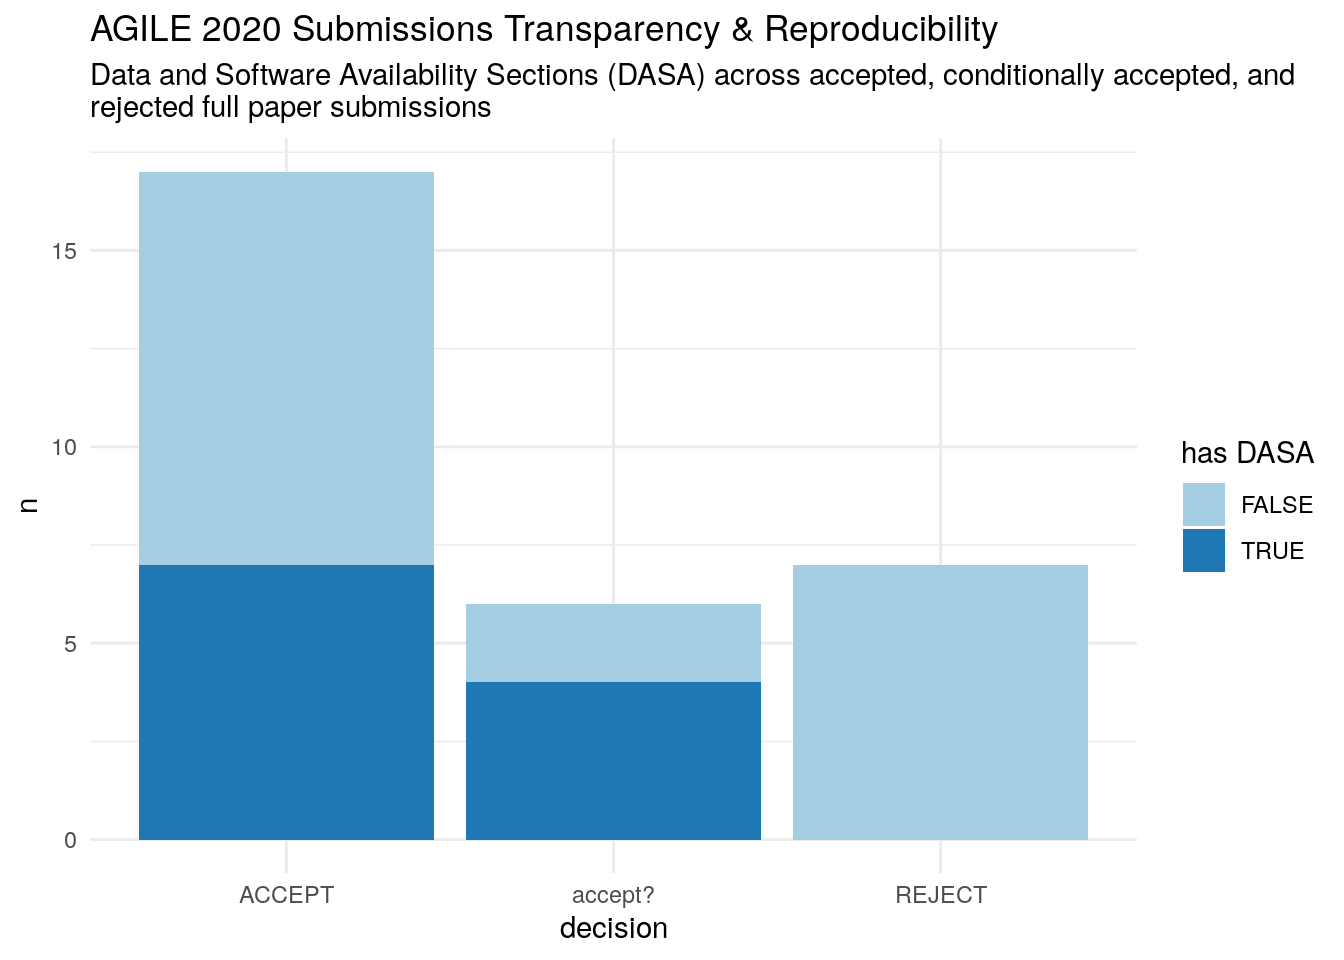
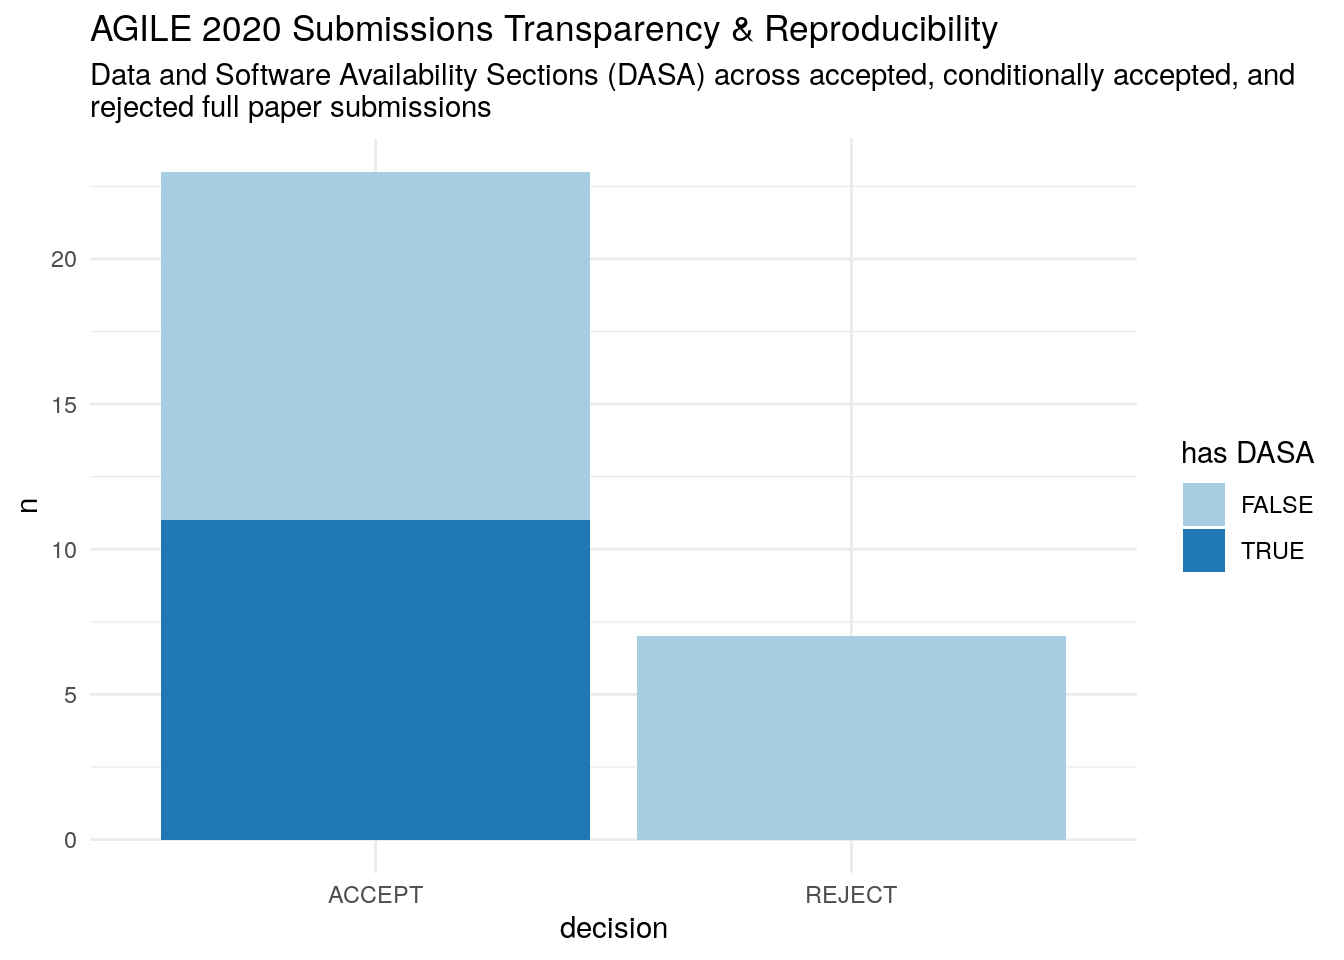
update email template

diff --git a/docs/agile-2020-papers.html b/docs/agile-2020-papers.html
@@ -192,7 +192,7 @@ $(document).ready(function () {
 
 <h1 class="title toc-ignore">Reproducibility Review AGILE 2020</h1>
 <h4 class="author">Daniel Nüst</h4>
-<h4 class="date">27 May, 2020</h4>
+<h4 class="date">05 June, 2020</h4>
 
 </div>
 
@@ -580,10 +580,10 @@ Full-paper
 Full-paper
 </td>
 <td style="text-align:right;">
-12097
+11797
 </td>
 <td style="text-align:right;">
-5484
+5345
 </td>
 </tr>
 <tr>
@@ -1372,10 +1372,10 @@ Short-paper
 FP:30|PO:18|SP:49
 </td>
 <td style="text-align:right;font-weight: bold;">
-395669
+395369
 </td>
 <td style="text-align:right;font-weight: bold;">
-194017
+193878
 </td>
 </tr>
 </tbody>
@@ -1454,7 +1454,7 @@ The following table shows the first 800 characters of these sections.
 </div>
 <div id="wordstem-analysis" class="section level3">
 <h3>Wordstem analysis</h3>
-<p>For the following table and figure, the word stems were extracted based on a stemming algorithm from package <a href="https://cran.r-project.org/package=quanteda"><code>quanteda</code></a>. The word cloud is based on 396 unique words occuring each at least 100 times, all in all occuring 98042 times which comprises 51 % of non-stop words.</p>
+<p>For the following table and figure, the word stems were extracted based on a stemming algorithm from package <a href="https://cran.r-project.org/package=quanteda"><code>quanteda</code></a>. The word cloud is based on 396 unique words occuring each at least 100 times, all in all occuring 97991 times which comprises 51 % of non-stop words.</p>
 <div style="border: 1px solid #ddd; padding: 0px; overflow-y: scroll; height:320px; ">
 <table class="table table-striped" style="margin-left: auto; margin-right: auto;">
 <thead>
@@ -1485,7 +1485,7 @@ n
 data
 </td>
 <td style="text-align:right;">
-3252
+3251
 </td>
 <td style="text-align:right;">
 95
@@ -1536,7 +1536,7 @@ spatial
 inform
 </td>
 <td style="text-align:right;">
-1027
+1025
 </td>
 <td style="text-align:right;">
 90
@@ -1672,7 +1672,7 @@ citi
 analysi
 </td>
 <td style="text-align:right;">
-712
+714
 </td>
 <td style="text-align:right;">
 80
@@ -1689,7 +1689,7 @@ analysi
 locat
 </td>
 <td style="text-align:right;">
-694
+691
 </td>
 <td style="text-align:right;">
 79
@@ -1706,7 +1706,7 @@ locat
 method
 </td>
 <td style="text-align:right;">
-670
+671
 </td>
 <td style="text-align:right;">
 85
@@ -1740,7 +1740,7 @@ urban
 system
 </td>
 <td style="text-align:right;">
-656
+650
 </td>
 <td style="text-align:right;">
 82
@@ -1791,7 +1791,7 @@ level
 https
 </td>
 <td style="text-align:right;">
-592
+586
 </td>
 <td style="text-align:right;">
 72
@@ -1808,7 +1808,7 @@ https
 develop
 </td>
 <td style="text-align:right;">
-583
+582
 </td>
 <td style="text-align:right;">
 83
@@ -2442,19 +2442,19 @@ FALSE
 0
 </td>
 <td style="text-align:right;">
-0
-</td>
-<td style="text-align:right;">
 1
 </td>
 <td style="text-align:right;">
-9
+8
 </td>
 <td style="text-align:right;">
-92
+6
 </td>
 <td style="text-align:right;">
-18
+91
+</td>
+<td style="text-align:right;">
+15
 </td>
 <td style="text-align:right;">
 0
@@ -2463,7 +2463,7 @@ FALSE
 0
 </td>
 <td style="text-align:right;">
-120
+121
 </td>
 </tr>
 <tr>
@@ -2486,19 +2486,19 @@ FALSE
 0
 </td>
 <td style="text-align:right;">
+0
+</td>
+<td style="text-align:right;">
 1
 </td>
 <td style="text-align:right;">
-8
+9
 </td>
 <td style="text-align:right;">
-6
+92
 </td>
 <td style="text-align:right;">
-90
-</td>
-<td style="text-align:right;">
-15
+18
 </td>
 <td style="text-align:right;">
 0
@@ -6190,7 +6190,7 @@ T:18|F:79
 831
 </td>
 <td style="text-align:right;font-weight: bold;">
-3577
+3578
 </td>
 <td style="text-align:right;font-weight: bold;">
 840
@@ -6202,7 +6202,7 @@ T:18|F:79
 43
 </td>
 <td style="text-align:right;font-weight: bold;">
-5885
+5886
 </td>
 </tr>
 </tbody>
@@ -6232,15 +6232,7 @@ count
 ACCEPT
 </td>
 <td style="text-align:right;">
-17
-</td>
-</tr>
-<tr>
-<td style="text-align:left;">
-accept?
-</td>
-<td style="text-align:right;">
-6
+23
 </td>
 </tr>
 <tr>
@@ -6289,7 +6281,7 @@ submitted with DASA
 accepted
 </td>
 <td style="text-align:right;">
-17
+23
 </td>
 </tr>
 <tr>
@@ -6297,7 +6289,7 @@ accepted
 accepted with DASA
 </td>
 <td style="text-align:right;">
-7
+11
 </td>
 </tr>
 <tr>
@@ -6305,7 +6297,7 @@ accepted with DASA
 conditionally accepted
 </td>
 <td style="text-align:right;">
-6
+0
 </td>
 </tr>
 <tr>
@@ -6313,7 +6305,7 @@ conditionally accepted
 conditionally accepted with DASA
 </td>
 <td style="text-align:right;">
-4
+0
 </td>
 </tr>
 <tr>
@@ -6490,7 +6482,9 @@ congratulations to the acceptance of your submission &quot;TITLE&quot; as a full
 
 As part of the AGILE reproducibility review (see https://docs.google.com/document/d/1JHCQV7GP3YkKwp0Nii3dt3p3Y45hU56Xz2cr-xJVz34/edit#heading=h.oheeg2s92zdm for details) I hereby ask you if you agree to the report being published on OSF (see https://osf.io/6k5fh/). A publication of the reproduction attempt gives credit to my work as a reproducibility reviewer and helps to improve future work.
 
-Please don&#39;t hesitate to get in touch with me and Daniel Nüst (CC&#39;ed), AGILE conference&#39;s Reproducibility Chair, if you have any questions.
+[OPTIONAL:] Alongside the report I would like to publish an archive of the used data and script files, and the output files generated by myself. Note these would be published under a CC-BY license on OSF, though the original source and license are noted in the report.
+
+Please don&#39;t hesitate to get in touch with me and Daniel Nüst (CC&#39;ed), AGILE conference&#39;s Reproducibility Chair, if you have any questions.  Please also include your coauthors in any further communication as you see fit.
 
 YOUR SALUTATION OF CHOICE,
 NAME</code></pre>
@@ -6539,31 +6533,26 @@ NAME</code></pre>
 ## [19] stringr_1.4.0      pdftools_2.2      
 ## 
 ## loaded via a namespace (and not attached):
-##  [1] nlme_3.1-139       fs_1.3.1           usethis_1.5.1     
-##  [4] lubridate_1.7.4    devtools_2.0.2     webshot_0.5.1     
-##  [7] rprojroot_1.3-2    SnowballC_0.6.0    tools_3.6.0       
-## [10] backports_1.1.4    R6_2.4.0           lazyeval_0.2.2    
-## [13] colorspace_1.4-1   withr_2.1.2        tidyselect_0.2.5  
-## [16] prettyunits_1.0.2  processx_3.4.0     curl_3.3          
-## [19] compiler_3.6.0     cli_1.1.0          desc_1.2.0        
-## [22] labeling_0.3       scales_1.0.0       callr_3.3.0       
-## [25] askpass_1.1        digest_0.6.20      rmarkdown_1.13    
-## [28] pkgconfig_2.0.2    htmltools_0.3.6    sessioninfo_1.1.1 
-## [31] highr_0.8          rlang_0.4.0        readxl_1.3.1      
-## [34] rstudioapi_0.10    generics_0.0.2     jsonlite_1.6      
-## [37] tokenizers_0.2.1   magrittr_1.5       Matrix_1.2-17     
-## [40] Rcpp_1.0.1         munsell_0.5.0      stringi_1.4.3     
-## [43] yaml_2.2.0         pkgbuild_1.0.3     grid_3.6.0        
-## [46] crayon_1.3.4       lattice_0.20-38    haven_2.1.1       
-## [49] hms_0.4.2          knitr_1.23         ps_1.3.0          
-## [52] pillar_1.4.2       stopwords_0.9.0    pkgload_1.0.2     
-## [55] fastmatch_1.1-0    glue_1.3.1         evaluate_0.14     
-## [58] qpdf_1.1           data.table_1.12.2  remotes_2.1.0     
-## [61] RcppParallel_4.4.3 modelr_0.1.4       selectr_0.4-1     
-## [64] testthat_2.1.1     cellranger_1.1.0   gtable_0.3.0      
-## [67] assertthat_0.2.1   xfun_0.8           mime_0.7          
-## [70] broom_0.5.2        janeaustenr_0.1.5  viridisLite_0.3.0 
-## [73] gargle_0.3.0       memoise_1.1.0      spacyr_1.2</code></pre>
+##  [1] Rcpp_1.0.1         lubridate_1.7.4    lattice_0.20-38   
+##  [4] assertthat_0.2.1   rprojroot_1.3-2    digest_0.6.20     
+##  [7] R6_2.4.0           cellranger_1.1.0   backports_1.1.4   
+## [10] evaluate_0.14      highr_0.8          pillar_1.4.2      
+## [13] rlang_0.4.0        curl_3.3           lazyeval_0.2.2    
+## [16] readxl_1.3.1       rstudioapi_0.10    data.table_1.12.2 
+## [19] Matrix_1.2-17      rmarkdown_1.13     qpdf_1.1          
+## [22] labeling_0.3       webshot_0.5.1      selectr_0.4-1     
+## [25] munsell_0.5.0      broom_0.5.2        compiler_3.6.0    
+## [28] janeaustenr_0.1.5  spacyr_1.2         modelr_0.1.4      
+## [31] xfun_0.8           pkgconfig_2.0.2    askpass_1.1       
+## [34] htmltools_0.3.6    tidyselect_0.2.5   viridisLite_0.3.0 
+## [37] crayon_1.3.4       withr_2.1.2        SnowballC_0.6.0   
+## [40] grid_3.6.0         nlme_3.1-139       jsonlite_1.6      
+## [43] gtable_0.3.0       magrittr_1.5       scales_1.0.0      
+## [46] tokenizers_0.2.1   RcppParallel_4.4.3 cli_1.1.0         
+## [49] stringi_1.4.3      stopwords_0.9.0    generics_0.0.2    
+## [52] fastmatch_1.1-0    tools_3.6.0        glue_1.3.1        
+## [55] hms_0.4.2          yaml_2.2.0         colorspace_1.4-1  
+## [58] knitr_1.23         haven_2.1.1</code></pre>
 <p><strong>The used MRAN snapshot is <a href="https://mran.microsoft.com/snapshot/2019-07-05" class="uri">https://mran.microsoft.com/snapshot/2019-07-05</a></strong>.</p>
 </div>
 
